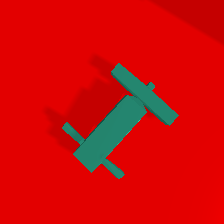
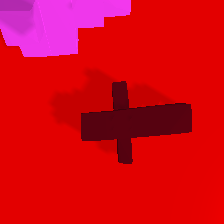
friction and force of fingers added

Changed region(s): [[0.1875, 0.25, 0.875, 0.8125], [0.0, 0.0, 0.5938, 0.2812], [0.6875, 0.0, 1.0, 0.1875]]

diff --git a/Phase_2_codebase/utils/visualisation/plot_without_fig.py b/Phase_2_codebase/utils/visualisation/plot_without_fig.py
@@ -1,0 +1,197 @@
+import warnings
+from datetime import datetime
+
+import matplotlib.pyplot as plt
+import numpy as np
+
+from utils.dataset_processing.grasp import detect_grasps
+
+warnings.filterwarnings("ignore")
+
+
+def plot_results(
+        fig,
+        rgb_img,
+        grasp_q_img,
+        grasp_angle_img,
+        depth_img=None,
+        no_grasps=1,
+        grasp_width_img=None
+):
+    """
+    Plot the output of a network
+    :param fig: Figure to plot the output
+    :param rgb_img: RGB Image
+    :param depth_img: Depth Image
+    :param grasp_q_img: Q output of network
+    :param grasp_angle_img: Angle output of network
+    :param no_grasps: Maximum number of grasps to plot
+    :param grasp_width_img: (optional) Width output of network
+    :return:
+    """
+    gs = detect_grasps(grasp_q_img, grasp_angle_img, width_img=grasp_width_img, no_grasps=no_grasps)
+
+    plt.ion()
+    plt.clf()
+    ax = fig.add_subplot(2, 3, 1)
+    ax.imshow(rgb_img)
+    ax.set_title('RGB')
+    ax.axis('off')
+
+    if depth_img is not None:
+        ax = fig.add_subplot(2, 3, 2)
+        ax.imshow(depth_img, cmap='gray')
+        ax.set_title('Depth')
+        ax.axis('off')
+
+    ax = fig.add_subplot(2, 3, 3)
+    ax.imshow(rgb_img)
+    for g in gs:
+        g.plot(ax)
+    ax.set_title('Grasp')
+    ax.axis('off')
+
+    ax = fig.add_subplot(2, 3, 4)
+    plot = ax.imshow(grasp_q_img, cmap='jet', vmin=0, vmax=1)
+    ax.set_title('Q')
+    ax.axis('off')
+    plt.colorbar(plot)
+
+    ax = fig.add_subplot(2, 3, 5)
+    plot = ax.imshow(grasp_angle_img, cmap='hsv', vmin=-np.pi / 2, vmax=np.pi / 2)
+    ax.set_title('Angle')
+    ax.axis('off')
+    plt.colorbar(plot)
+
+    ax = fig.add_subplot(2, 3, 6)
+    plot = ax.imshow(grasp_width_img, cmap='jet', vmin=0, vmax=100)
+    ax.set_title('Width')
+    ax.axis('off')
+    plt.colorbar(plot)
+
+    plt.pause(0.1)
+    fig.canvas.draw()
+
+    return gs
+
+
+def plot_grasp(
+        fig,
+        grasps=None,
+        save=False,
+        rgb_img=None,
+        grasp_q_img=None,
+        grasp_angle_img=None,
+        no_grasps=1,
+        grasp_width_img=None
+):
+    """
+    Plot the output grasp of a network
+    :param fig: Figure to plot the output
+    :param grasps: grasp pose(s)
+    :param save: Bool for saving the plot
+    :param rgb_img: RGB Image
+    :param grasp_q_img: Q output of network
+    :param grasp_angle_img: Angle output of network
+    :param no_grasps: Maximum number of grasps to plot
+    :param grasp_width_img: (optional) Width output of network
+    :return:
+    """
+    if grasps is None:
+        grasps = detect_grasps(grasp_q_img, grasp_angle_img, width_img=grasp_width_img, no_grasps=no_grasps)
+
+    plt.ion()
+    plt.clf()
+
+    ax = plt.subplot(111)
+    ax.imshow(rgb_img)
+    for g in grasps:
+        g.plot(ax)
+    ax.set_title('Grasp')
+    ax.axis('off')
+
+    plt.pause(0.1)
+    fig.canvas.draw()
+
+    if save:
+        time = datetime.now().strftime('%Y-%m-%d %H:%M:%S')
+        fig.savefig('results/{}.png'.format(time))
+
+
+def save_results(rgb_img, grasp_q_img, grasp_angle_img, depth_img=None, no_grasps=1, grasp_width_img=None):
+    """
+    Plot the output of a network
+    :param rgb_img: RGB Image
+    :param depth_img: Depth Image
+    :param grasp_q_img: Q output of network
+    :param grasp_angle_img: Angle output of network
+    :param no_grasps: Maximum number of grasps to plot
+    :param grasp_width_img: (optional) Width output of network
+    :return:
+    """
+    gs = detect_grasps(grasp_q_img, grasp_angle_img, width_img=grasp_width_img, no_grasps=no_grasps)
+
+    fig = plt.figure(figsize=(10, 10))
+    plt.ion()
+    plt.clf()
+    ax = plt.subplot(111)
+    ax.imshow(rgb_img)
+    ax.set_title('RGB')
+    ax.axis('off')
+    fig.savefig('results/rgb.png')
+
+    if depth_img.any():
+        fig = plt.figure(figsize=(10, 10))
+        plt.ion()
+        plt.clf()
+        ax = plt.subplot(111)
+        ax.imshow(depth_img, cmap='gray')
+        for g in gs:
+            g.plot(ax)
+        ax.set_title('Depth')
+        ax.axis('off')
+        fig.savefig('results/depth.png')
+
+    fig = plt.figure(figsize=(10, 10))
+    plt.ion()
+    plt.clf()
+    ax = plt.subplot(111)
+    ax.imshow(rgb_img)
+    for g in gs:
+        g.plot(ax)
+    ax.set_title('Grasp')
+    ax.axis('off')
+    fig.savefig('results/grasp.png')
+
+    fig = plt.figure(figsize=(10, 10))
+    plt.ion()
+    plt.clf()
+    ax = plt.subplot(111)
+    plot = ax.imshow(grasp_q_img, cmap='jet', vmin=0, vmax=1)
+    ax.set_title('Q')
+    ax.axis('off')
+    plt.colorbar(plot)
+    fig.savefig('results/quality.png')
+
+    fig = plt.figure(figsize=(10, 10))
+    plt.ion()
+    plt.clf()
+    ax = plt.subplot(111)
+    plot = ax.imshow(grasp_angle_img, cmap='hsv', vmin=-np.pi / 2, vmax=np.pi / 2)
+    ax.set_title('Angle')
+    ax.axis('off')
+    plt.colorbar(plot)
+    fig.savefig('results/angle.png')
+
+    fig = plt.figure(figsize=(10, 10))
+    plt.ion()
+    plt.clf()
+    ax = plt.subplot(111)
+    plot = ax.imshow(grasp_width_img, cmap='jet', vmin=0, vmax=100)
+    ax.set_title('Width')
+    ax.axis('off')
+    plt.colorbar(plot)
+    fig.savefig('results/width.png')
+
+    fig.canvas.draw()
+    plt.close(fig)

diff --git a/Phase_2_codebase/robot_with_drop_area.py b/Phase_2_codebase/robot_with_drop_area.py
@@ -34,7 +34,7 @@ def get_real_world_coord():
     a = 0.005
     y = y - a*(1-gs[0].center[0]/112)
     x = x + a*(1-gs[0].center[1]/112)
-    score = 0.5
+    score = 1.5
     angle = gs[0].angle
     print(x,y)
     return x,y,angle,score
@@ -59,7 +59,7 @@ def pick(xpos, ypos, object, threshold=1):
         Robot.rotate_gripper(angle)
         Robot.move_frame_and_head(y+0.06, x-0.03)
         z_init = Robot.end_effector()[0][2]
-        zpos = z_init - 1.06
+        zpos = z_init - 1.055
         Robot.extend_wrist(zpos)
         Robot.close_gripper(0.10)
         Robot.contract_wrist(0.13)
@@ -93,7 +93,7 @@ suction = 0
 print(Robot.end_effector())
 time.sleep(2)
 print(Robot.end_effector())
-for i in  range(1,25): #can use object indices as well (to select particular object)
+for i in  range(7,25): #can use object indices as well (to select particular object)
     object = Robot._objectUids[i]
     pos = p.getBasePositionAndOrientation(object)[0]  
     suction, cons = pick(pos[0], pos[1], object)

diff --git a/Phase_2_codebase/robot.py b/Phase_2_codebase/robot.py
@@ -69,12 +69,12 @@ class robot:
 		p.changeVisualShape(self.bot,45,rgbaColor=[0,1,0,1])
 		'''
 
-		fingers = [14,15,17,16]
+		fingers = [14,15]
 
 		for i in fingers:
 			p.changeDynamics(bodyUniqueId=self.bot,
 				             linkIndex=i,
-				             lateralFriction=1,
+				             lateralFriction=2,
 				             restitution=0.5)
 		self.n = p.getNumJoints(self.bot)
 
@@ -291,7 +291,7 @@ class robot:
 			if i>0.6:
 				print("not going further")
 				break
-		p.setJointMotorControl2(self.bot, self.plate_left,p.VELOCITY_CONTROL, targetVelocity = 0.09, force = 1)
+		p.setJointMotorControl2(self.bot, self.plate_left,p.VELOCITY_CONTROL, targetVelocity = 0.2, force = 10)
 		#p.setJointMotorControl2(self.bot, self.plate_right,p.VELOCITY_CONTROL, targetVelocity = -0.09, force = 2)
 
 

diff --git a/Phase_2_codebase/run_offline.py b/Phase_2_codebase/run_offline.py
@@ -75,7 +75,7 @@ def predict_grasp_angle(network, rgb_path, depth_path):
                          grasp_angle_img=ang_img,
                          no_grasps=n_grasps,
                          grasp_width_img=width_img)
-            #fig.savefig('img_result.pdf')
+            fig.savefig('img_result.pdf')
             for g in gs:
             	print(g.center)
             	print(g.angle)
